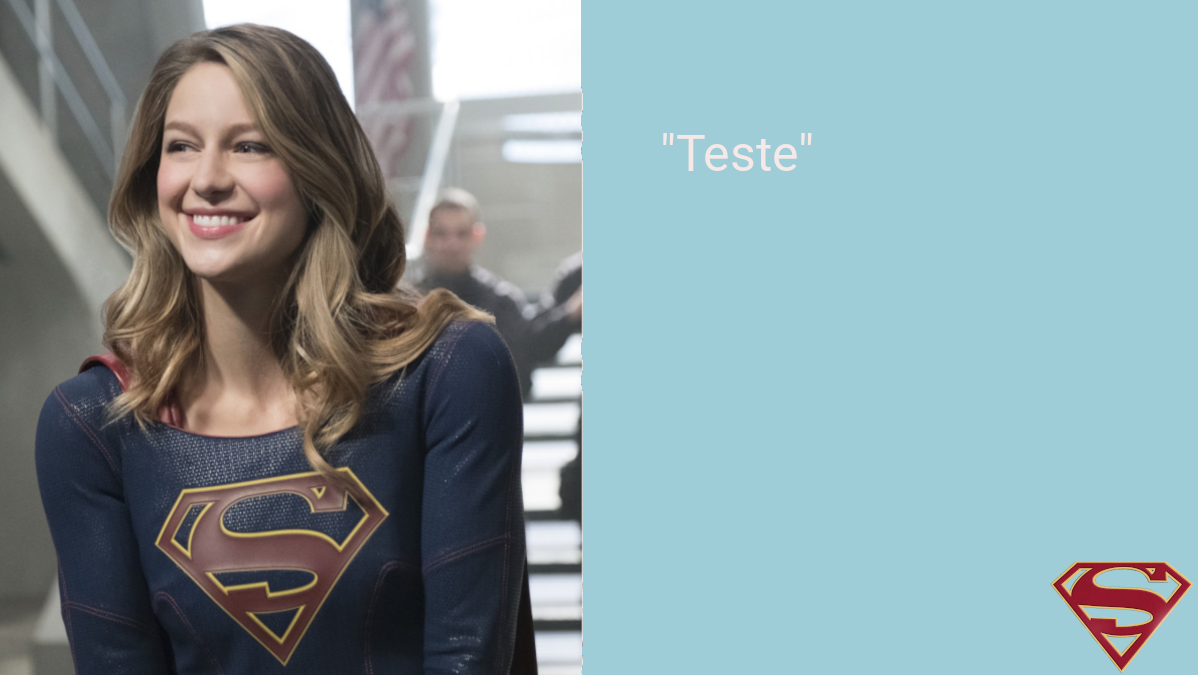
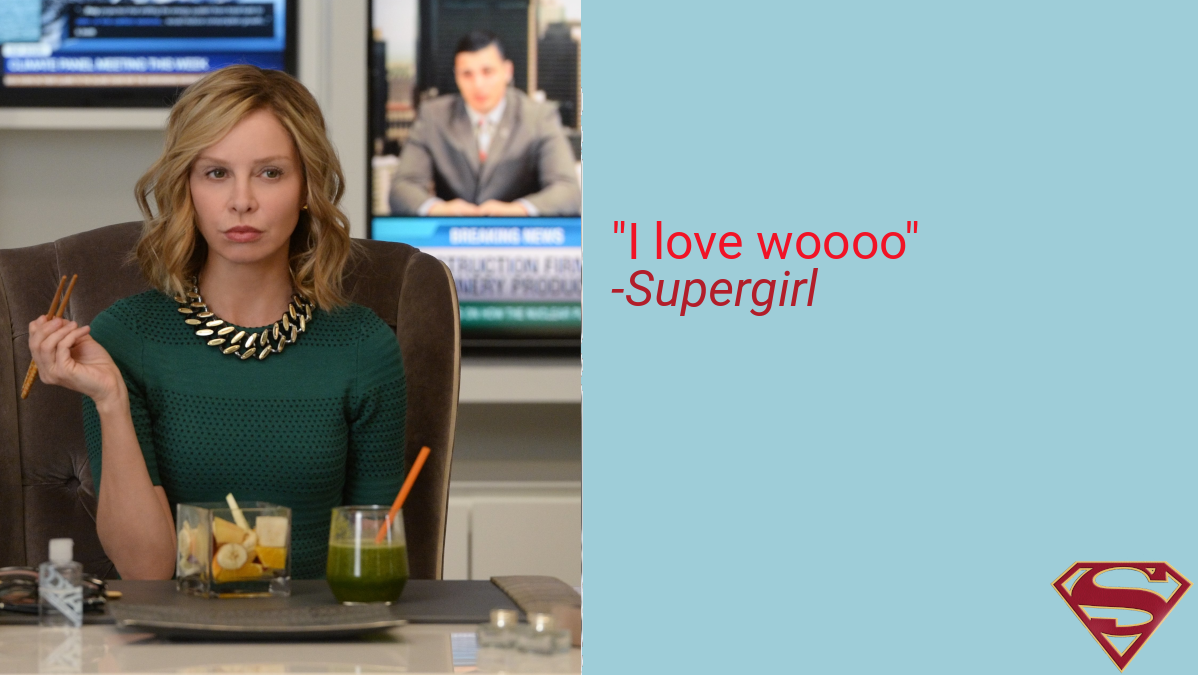
cleaning code and adding more templates images

diff --git a/image-build.py b/image-build.py
@@ -1,13 +1,43 @@
 from PIL import Image, ImageFont, ImageDraw 
+import textwrap
 
-my_image = Image.open("images/quote-supergirl.png")
+def main():
+    my_image = Image.open("images/quote-supergirl04.png")
 
-title_text = "\"Teste\""
+    test = "\"aqui está um texto com vários caracteres, queria dizer que isso é muito estranho, imagino que não seja tanto assim, thunder, ele repete muito essa palavra, não gosto de músicas que\""
+    test = "\"I love woooo\""
+    #test = "\"iraaaa isso é muuuito estranho, imagino que não\""
 
-title_font = ImageFont.truetype('fonts/Roboto-Regular.ttf', 50)
+    margin = 611
+    offset = 14
 
-image_editable = ImageDraw.Draw(my_image)
+    if len(test) <= 100:
+        offset = 212
 
-image_editable.text((660,124), title_text, (245, 232, 230), font=title_font)
+    title_font = ImageFont.truetype('fonts/Roboto-Regular.ttf', 50)
+    italic_font = ImageFont.truetype('fonts/Roboto-Italic.ttf', 50)
 
-my_image.save("result.png")
+    image_editable = ImageDraw.Draw(my_image)
+
+    text = "\n".join(textwrap.wrap(test, width=23))
+
+    image_editable.text((margin, offset), text, (241, 19, 38), font=title_font)
+
+    offset += (title_font.getsize(text)[1] * len(textwrap.wrap(test, width=23)))
+
+    character = "-Supergirl"
+    image_editable.text((margin, offset), character, (178, 30, 42), font=italic_font)
+
+    my_image.save("result.png")
+
+if __name__ == "__main__":
+    main()
+
+
+
+
+#250 caracteres
+#183 caracteres sem precisar mudar a fonte
+#212 -> -100caracteres
+#cortar a frase se tiver mais de 183 chars
+#cor -> (245, 232, 230)
